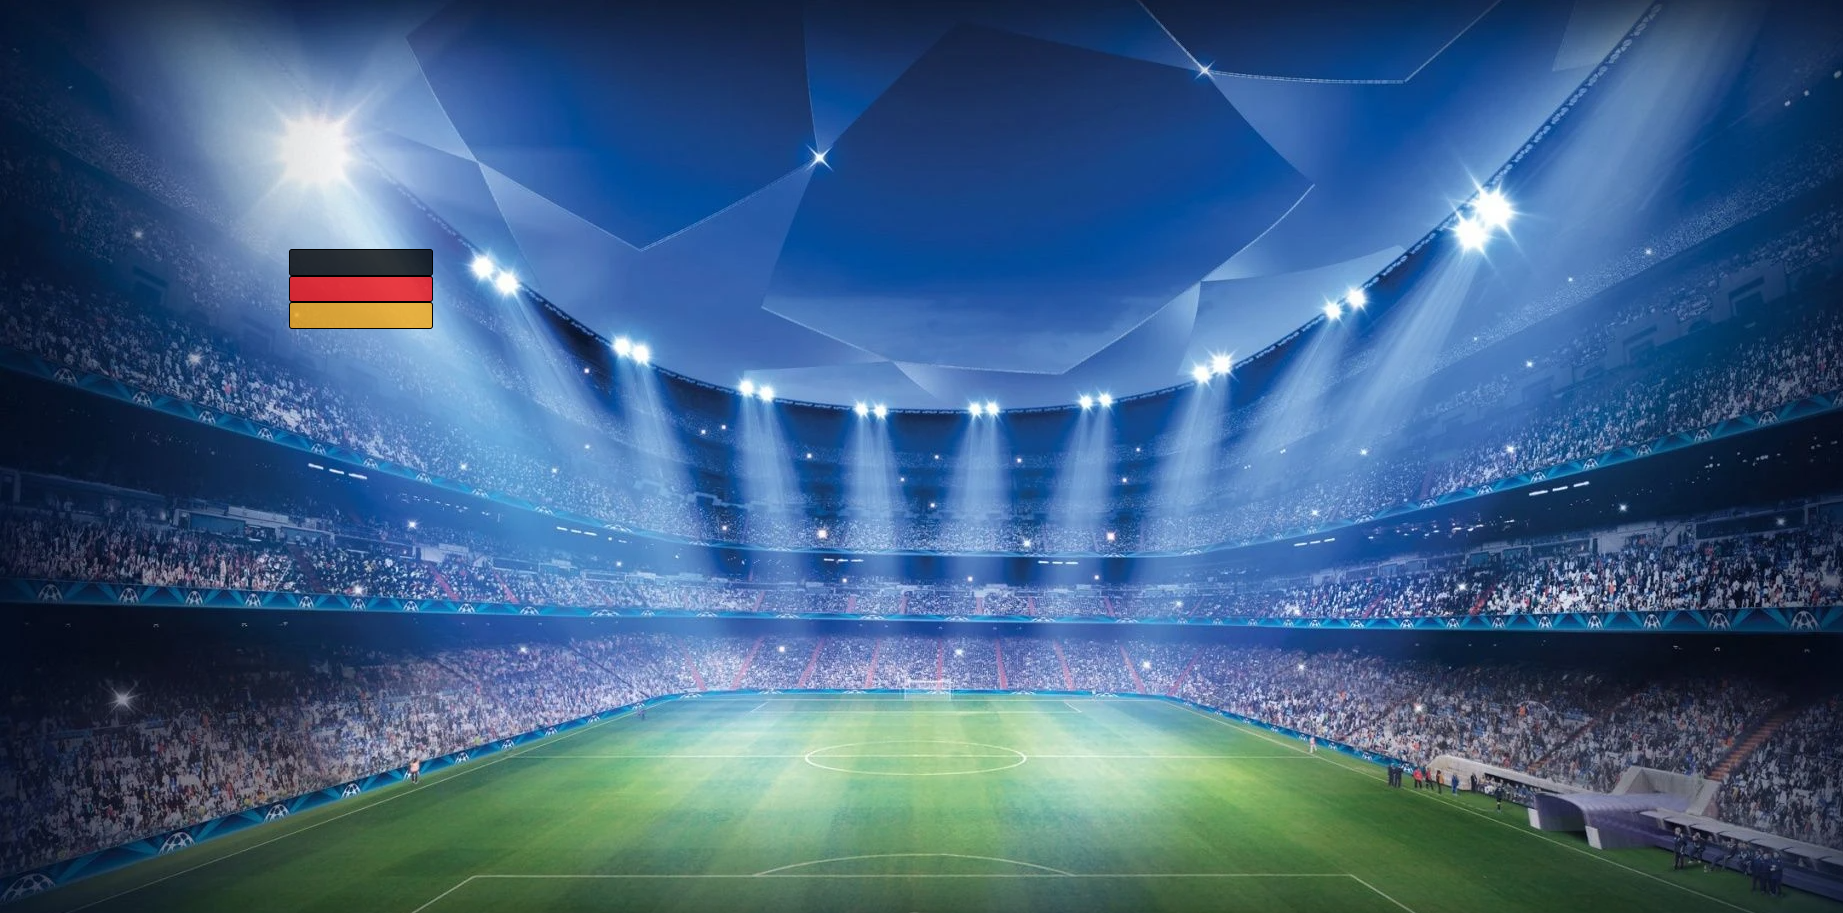
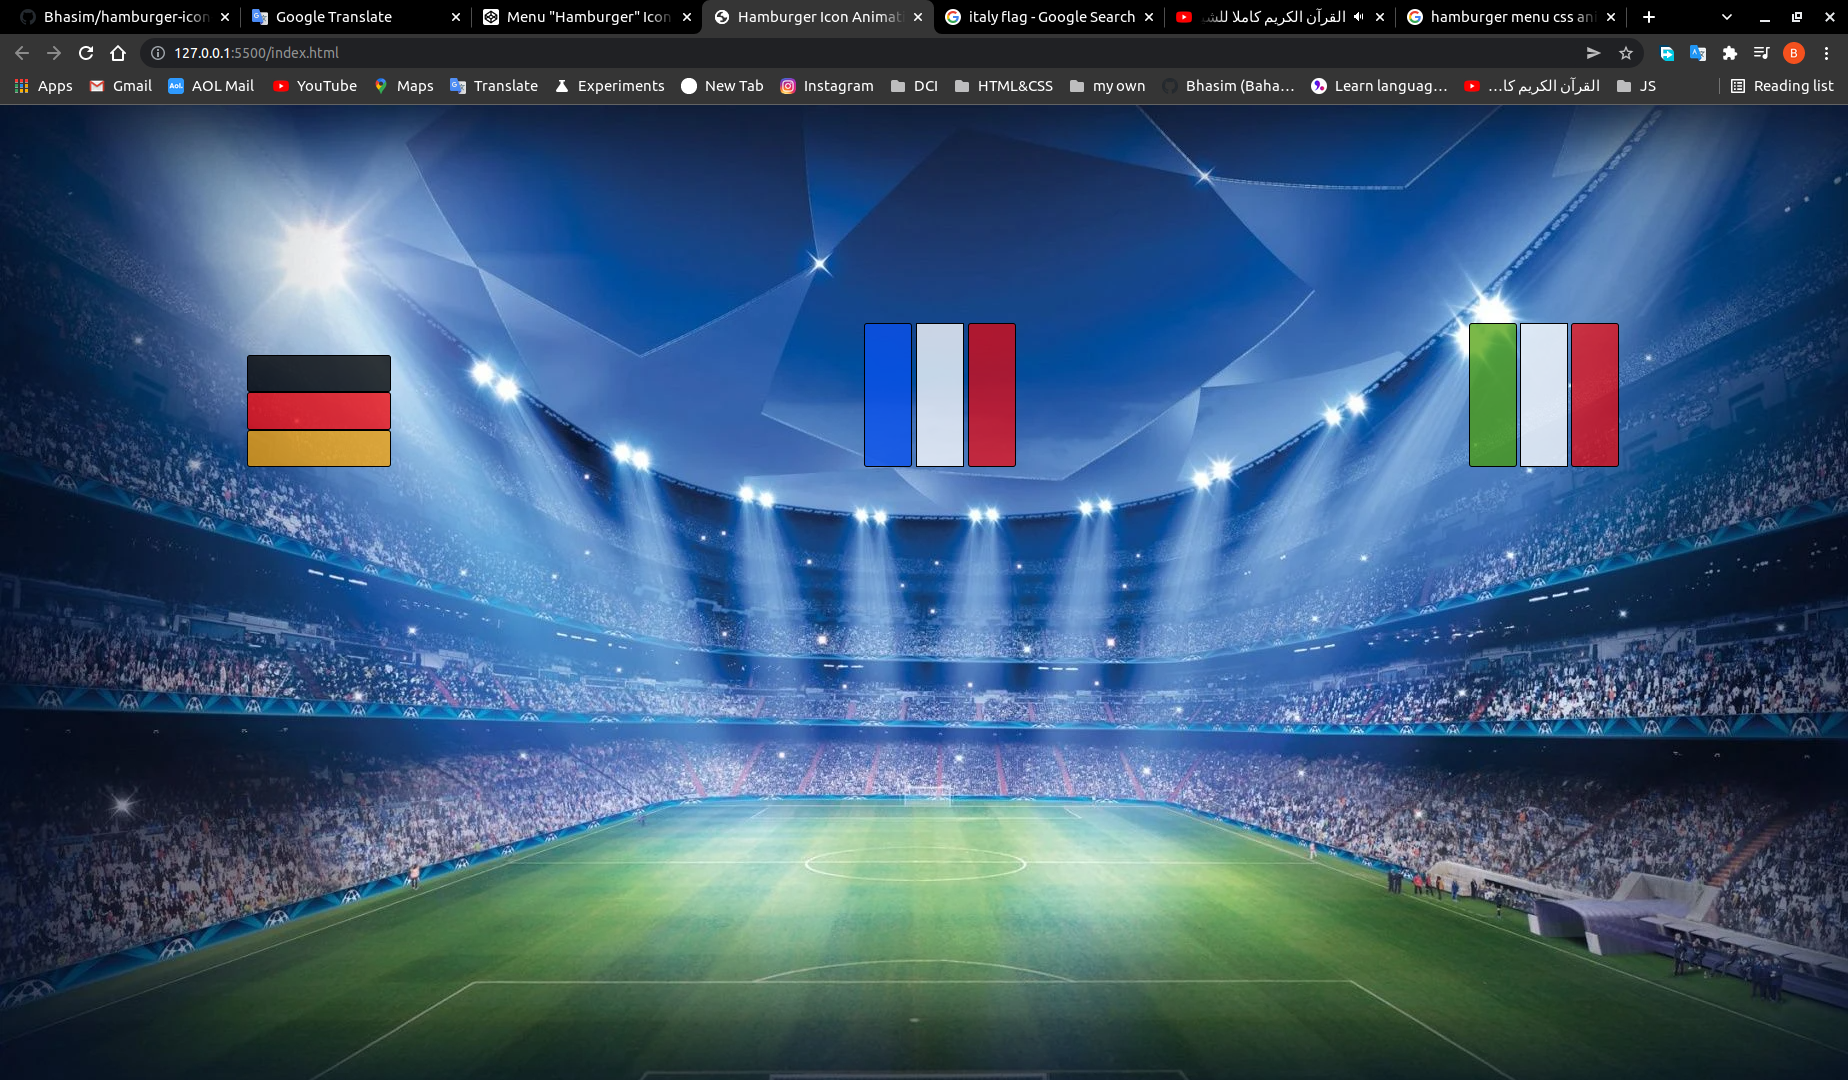
added more  README info

diff --git a/css/fr-flag.css b/css/fr-flag.css
@@ -1,0 +1,48 @@
+.fr-flag {
+    display: flex;
+    justify-content: space-evenly;
+    align-items: center;
+    flex-direction: row;
+    height: 5rem;
+    width: 10rem;
+}
+ 
+/* div color  */
+
+.fr-flag :nth-child(1){
+    height: 9rem;
+    width: 3rem;
+    background-color: rgba(9, 81, 238, 0.774);
+    border-radius: 3px;
+    border: 1px black solid;
+}
+.fr-flag :nth-child(2){
+    height: 9rem;
+    width: 3rem;
+    background-color: rgba(255, 255, 255, 0.774);
+    borfrr-radius: 3px;
+    border: 1px black solid;
+}
+.fr-flag :nth-child(3){
+    height: 9rem;
+    width: 3rem;
+    background-color: rgba(252, 0, 0, 0.664);
+    border-radius: 3px;
+    border: 1px black solid;
+}
+
+/* div flag animation */
+
+
+.fr-flag:hover > :nth-child(1) {
+    -webkit-transform: rotate(135deg);
+    
+}
+.fr-flag:hover > :nth-child(2) {
+    opacity: 0;
+ 
+}
+.fr-flag:hover > :nth-child(3) {
+   
+    -webkit-transform: rotate(-135deg);
+}

diff --git a/css/italy.css b/css/italy.css
@@ -1,0 +1,48 @@
+.it-flag {
+    display: flex;
+    justify-content: space-evenly;
+    align-items: center;
+    flex-direction: row;
+    height: 5rem;
+    width: 10rem;
+}
+ 
+/* div color  */
+
+.it-flag :nth-child(1){
+    height: 9rem;
+    width: 3rem;
+    background-color: rgba(71, 156, 1, 0.719);
+    border-radius: 3px;
+    border: 1px black solid;
+}
+.it-flag :nth-child(2){
+    height: 9rem;
+    width: 3rem;
+    background-color: rgba(255, 255, 255, 0.774);
+    borfrr-radius: 3px;
+    border: 1px black solid;
+}
+.it-flag :nth-child(3){
+    height: 9rem;
+    width: 3rem;
+    background-color: rgba(252, 0, 0, 0.664);
+    border-radius: 3px;
+    border: 1px black solid;
+}
+
+/* div flag animation */
+
+
+.it-flag:hover > :nth-child(1) {
+    -webkit-transform: rotate(135deg);
+    
+}
+.it-flag:hover > :nth-child(2) {
+    opacity: 0;
+ 
+}
+.it-flag:hover > :nth-child(3) {
+   
+    -webkit-transform: rotate(-135deg);
+}

diff --git a/index.html b/index.html
@@ -14,24 +14,26 @@
     <title>Hamburger Icon Animations</title>
   </head>
   <body>
-    <!-- shape x  -->
+   <section class="main-container">
+      <!-- deutschland flag shape   -->
       <div class="de-shape">
         <div></div>
         <div></div>
         <div></div>
       </div>
-      <!-- shape III  -->
-      <div class="III">
+      <!-- france flag  -->
+      <div class="fr-flag">
         <div></div>
         <div></div>
         <div></div>
       </div>
-      <!-- shape box  -->
-      <div class="#">
+      <!-- italy flag -->
+      <div class="it-flag">
         <dive></dive>
         <dive></dive>
         <dive></dive>
         <div></div>
       </div>
+   </section>
   </body>
 </html>

diff --git a/css/style.css b/css/style.css
@@ -1,2 +1,12 @@
 @import url(./normal.css);
 @import url(./de-flag.css);
+@import url(./fr-flag.css);
+@import url(./italy.css);
+
+.main-container{
+    display: flex;
+    flex-direction: row;
+    align-content: center;
+    justify-content: space-around;
+    margin-top: 250px;
+}

diff --git a/css/normal.css b/css/normal.css
@@ -5,10 +5,5 @@
   }
   
   body{
-    display: flex;
-    flex-direction: row;
-    align-content: center;
-    justify-content: space-around;
     background-image: url(../img/fantasy-football-zoom-backgrounds-5.webp);
-    margin-top: 250px;
   }

diff --git a/css/de-flag.css b/css/de-flag.css
@@ -5,8 +5,8 @@
     justify-content: space-evenly;
     align-items: center;
     flex-direction: column;
-    height: 5rem;
-    width: 10rem;
+    height: 7rem;
+    width: 12rem;
 }
  
 /* div color  */
